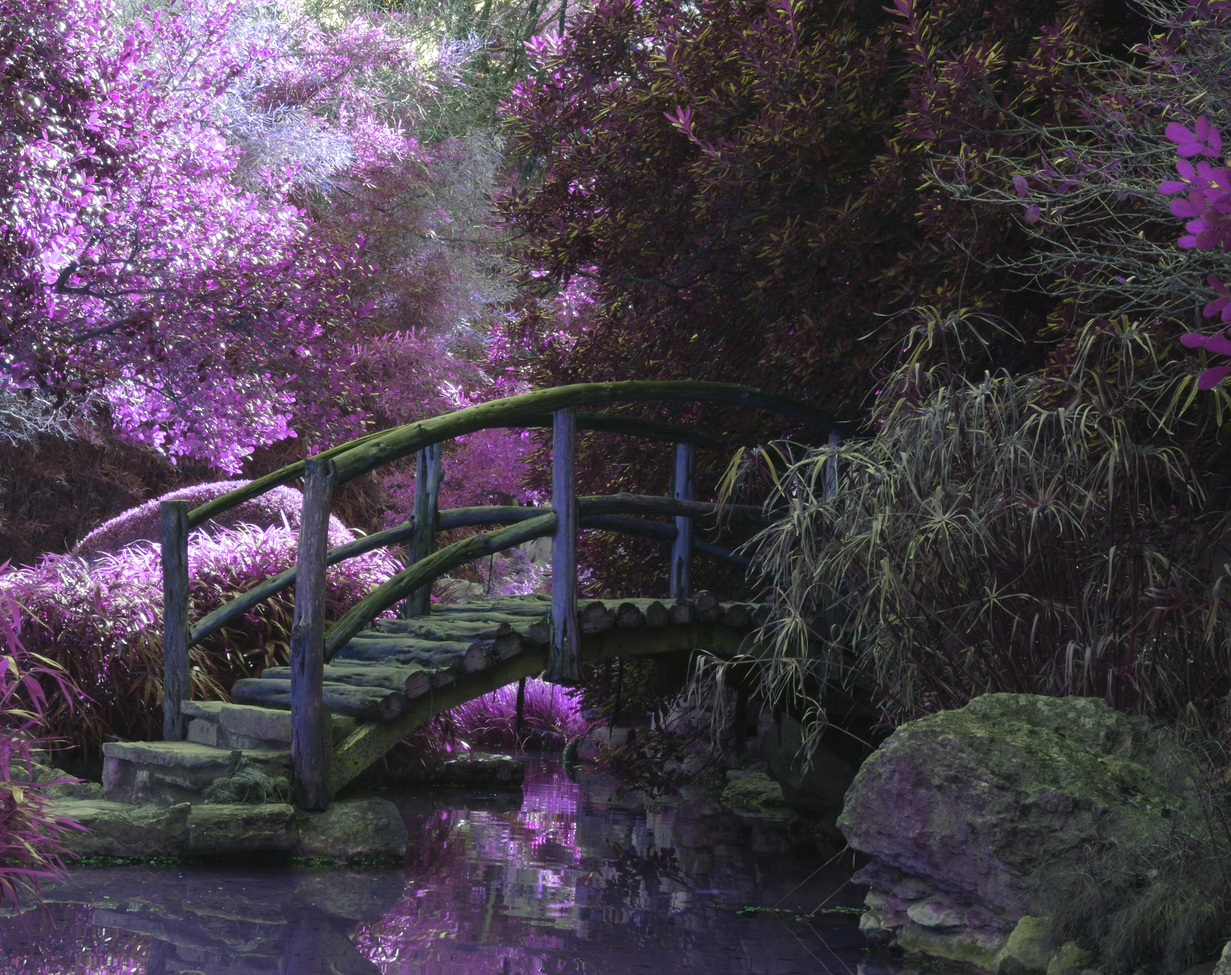
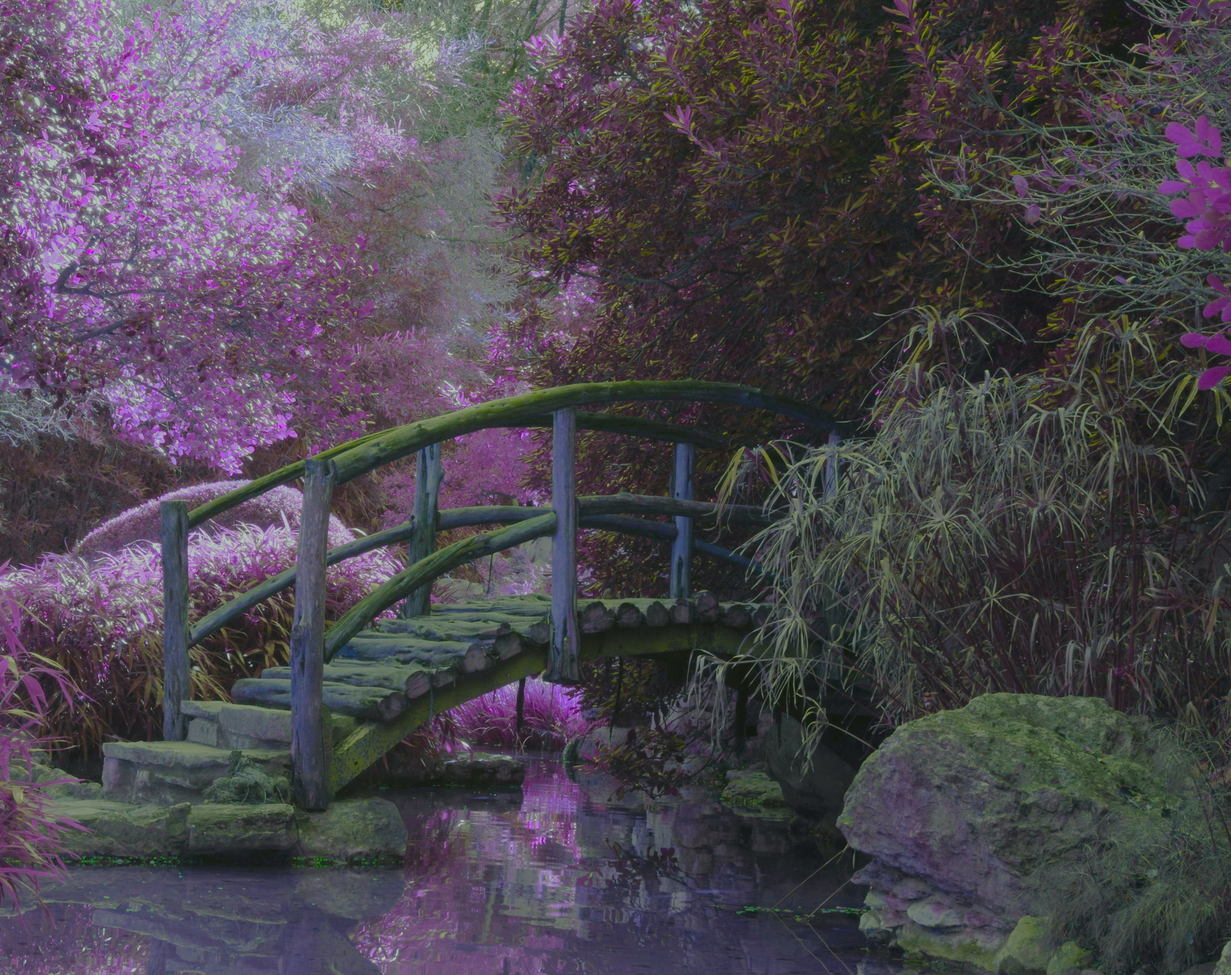
tweaked background images on wands and items to make text easier to read, adjusted the navbar onn wands - testing for visibility

diff --git a/wands.html b/wands.html
@@ -6,7 +6,7 @@
 </head>
 <!-- <body> -->
 
-<div class="navbar">
+<div class="navbardark">
   <a href="index.html">Home</a>
   <a href="about_florrie.html">Who is Florrie?</a>
   <a href="potions.html">Potions</a>
